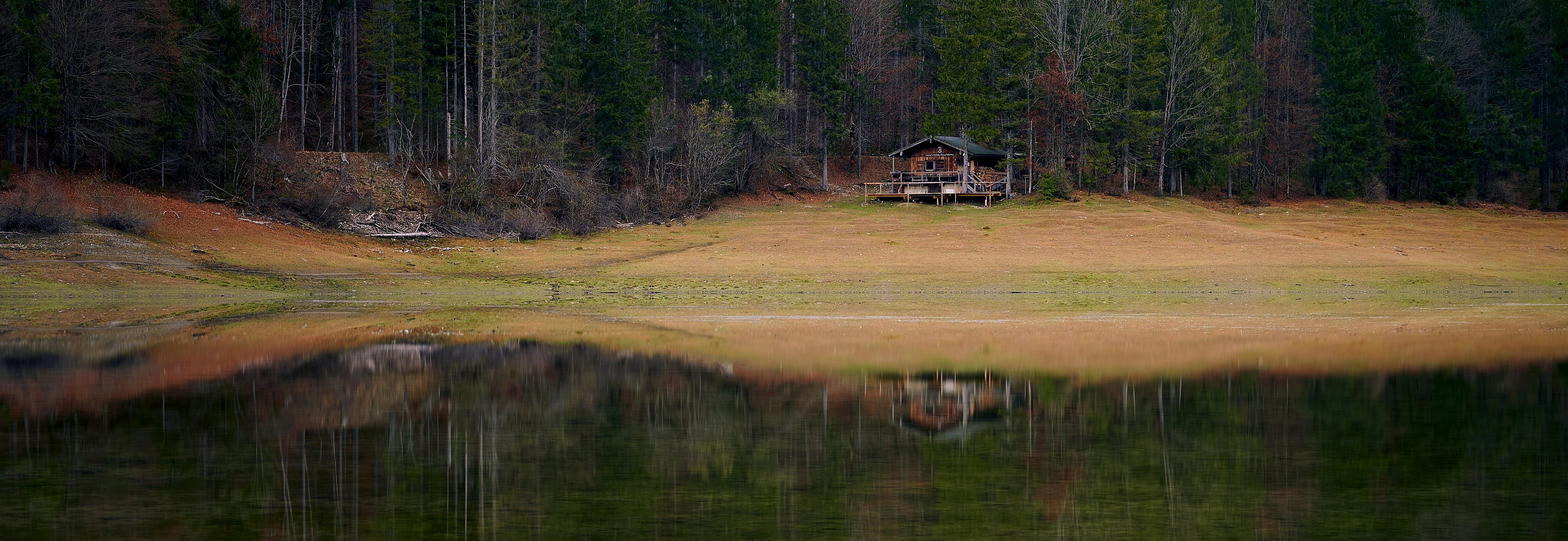
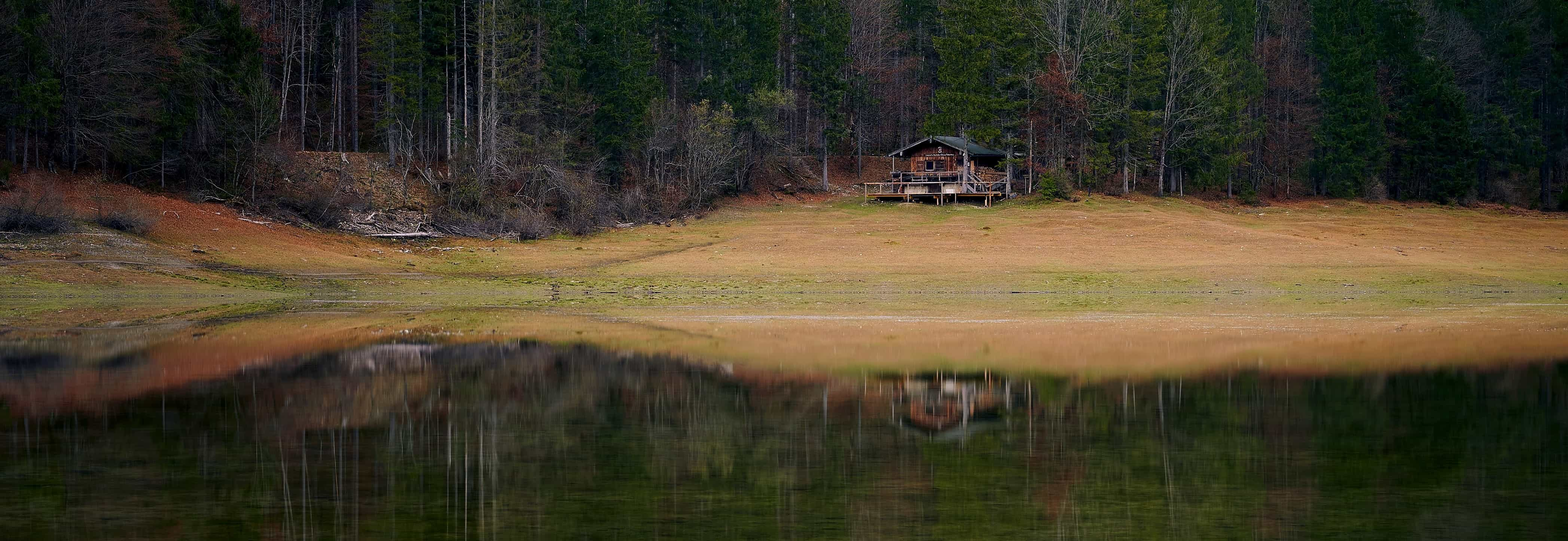
new cover

diff --git a/_posts/2020-2-21-.md b/_posts/2020-2-21-.md
@@ -1,0 +1,9 @@
+---
+layout: post
+title: 
+subtitle: 
+date: 2020-2-21
+author: yanghong
+header-img: images/cover/0.jpg
+tags: 
+---
